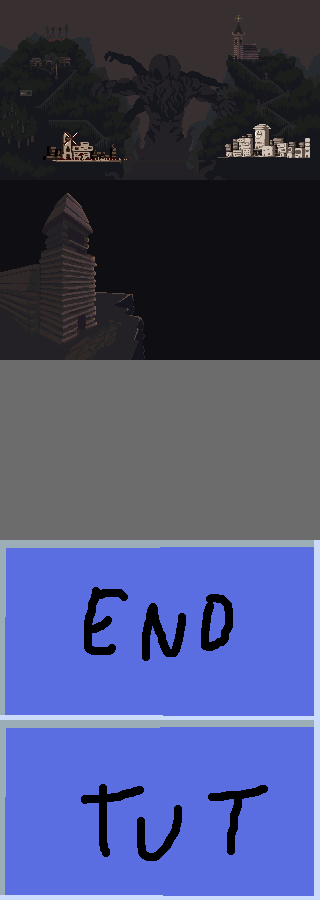
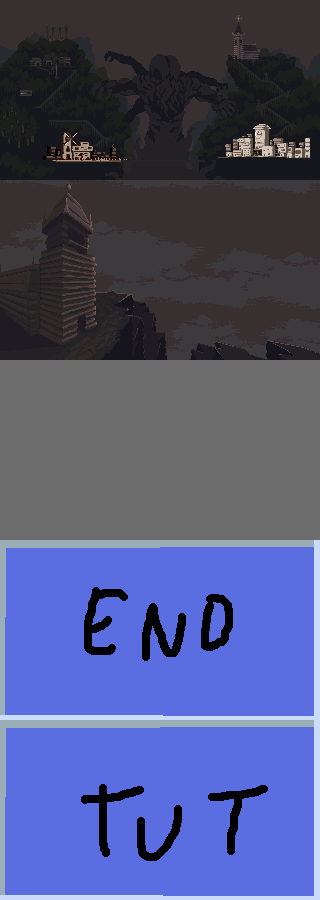
dqs

Changed region(s): [[0.0, 0.1867, 1.0, 0.4044]]

diff --git a/LD43/Game1.cs b/LD43/Game1.cs
@@ -41,7 +41,7 @@ namespace LD43
         UISystem currentUI;
         UISystem mainUI, tutorialUI, pauseUI, endgameUI, gameUI;
 
-        TextureDrawer cursorTex, currentBG, meterTex;
+        TextureDrawer cursorTex, currentBG, meterTex, cloudTex;
         TextureDrawer gameBG, mainMenuBG, endBG, tutorialBG, pauseBG, icons;
         TextureDrawer goodEnding, destructionEnding, revoltEnding, starvationEnding, cultEnding;
 
@@ -59,6 +59,7 @@ namespace LD43
         bool switchedState, changeTooltipText; // set this to false if you want to have a tooltip triggered in UpdateGame
         string tooltipText;
         Vector2 tooltipPos;
+        float cloudSpeed, cloudTimer;
         
         public Game1()
         {
@@ -100,11 +101,11 @@ namespace LD43
 
             fdrawer = new FontDrawer();
             List<TextureDrawer> font = new List<TextureDrawer>();
-            string junk = "abcdefghijklmnopqrstuvwxyz\".,;:?!'\"][-+/\\^&é0123456789";
+            string junk = "abcdefghijklmnopqrstuvwxyzABCDEFGHIJKLMNOPQRSTUVWXYZ\".,;:?!'\"][-+/\\^&é0123456789";
             Texture2D tex = Content.Load<Texture2D>("Placeholder/font2");
             for (int i = 0; i < junk.Length; i++)
             {
-                font.Add(new TextureDrawer(tex, new TextureFrame(new Rectangle(8 * i, 0, 8, 11), new Point(0, 0)), null, junk[i].ToString(), null, null));
+                font.Add(new TextureDrawer(tex, new TextureFrame(new Rectangle(8 * i, 0, 8, 10), new Point(0, 0)), null, junk[i].ToString(), null, null));
             }
             fdrawer.fonts.Add(new DrawerCollection(font, "font"));
             tooltipText = "";
@@ -113,6 +114,8 @@ namespace LD43
 
             currentUI = mainUI;
             currentBG = mainMenuBG;
+            cloudSpeed = 2;
+            cloudTimer = 0;
         }
         void CreateScenes()
         {
@@ -154,6 +157,7 @@ namespace LD43
             cursorTex = SpriteSheetCollection.GetTex("static", "PlaceholderSheet", "cursor");
             icons = SpriteSheetCollection.GetTex("idle", "buttons", "question");
             meterTex = new TextureDrawer(Content.Load<Texture2D>("Placeholder/meter"));
+            cloudTex = new TextureDrawer(Content.Load<Texture2D>("Sprites/clouds"));
 
             LoadBGs();
             CreateUI();
@@ -837,7 +841,7 @@ namespace LD43
         {
             GraphicsDevice.Clear(Color.CornflowerBlue); 
             DrawScenes();
-            DrawSwitch();
+            DrawSwitch((float)gameTime.ElapsedGameTime.TotalSeconds);
             //draw to buffer
             spriteBatch.Begin(samplerState: SamplerState.PointClamp);
             GraphicsDevice.SetRenderTarget(null);
@@ -847,7 +851,7 @@ namespace LD43
             spriteBatch.End();
             base.Draw(gameTime);
         } //draw main scene to null target
-        void DrawSwitch()
+        void DrawSwitch(float es_)
         {
             //draw BG
             scenes.SetupScene(spriteBatch, GraphicsDevice, "base");
@@ -862,11 +866,13 @@ namespace LD43
                     switch (currentSubState)
                     {
                         case GameSubState.Game:
+                            DrawClouds(es_);
                             scenes.DrawScene(spriteBatch, "game");
                             scenes.DrawScene(spriteBatch, "menu");
                             break;
 
                         case GameSubState.Pause:
+                            DrawClouds(es_);
                             scenes.DrawScene(spriteBatch, "game");
                             scenes.DrawScene(spriteBatch, "menu");
                             break;
@@ -1012,6 +1018,13 @@ namespace LD43
             {
                 meterTex.Draw(spriteBatch, new Vector2(pos_.X + i, pos_.Y));
             }
+        }
+
+        void DrawClouds(float es_)
+        {
+            cloudTimer += cloudSpeed * es_;
+            cloudTex.Draw(spriteBatch, new Vector2(-320 + cloudTimer, 0));
+            cloudTex.Draw(spriteBatch, new Vector2(cloudTimer, 0));
         }
     }
 }
